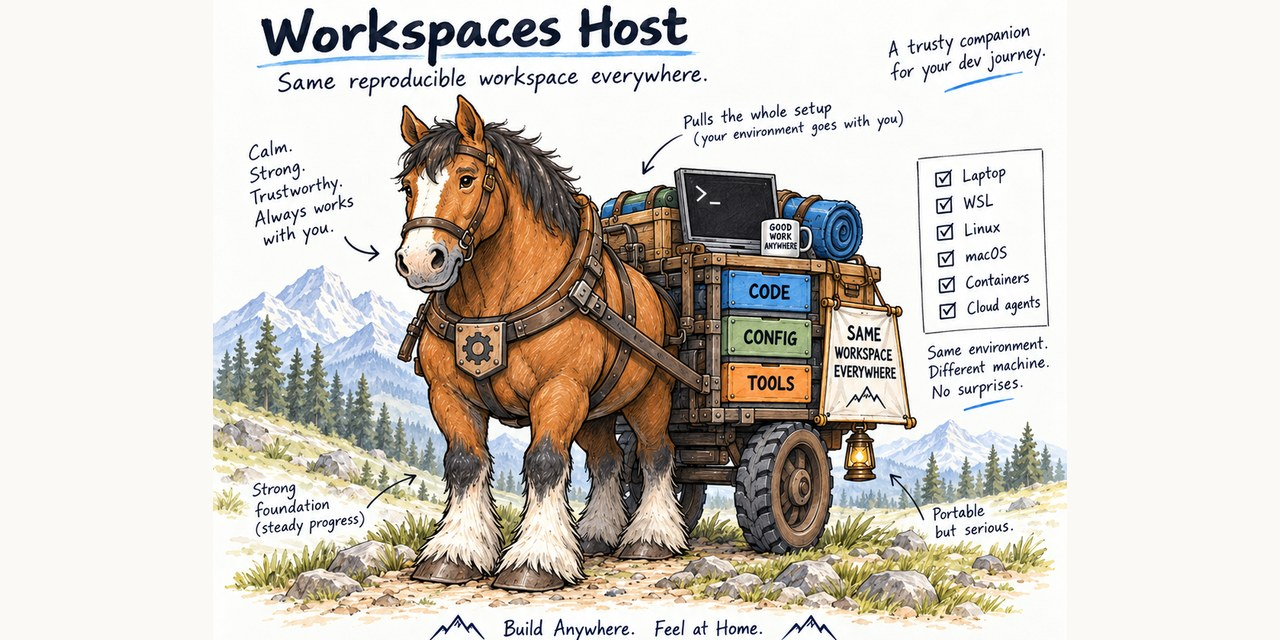
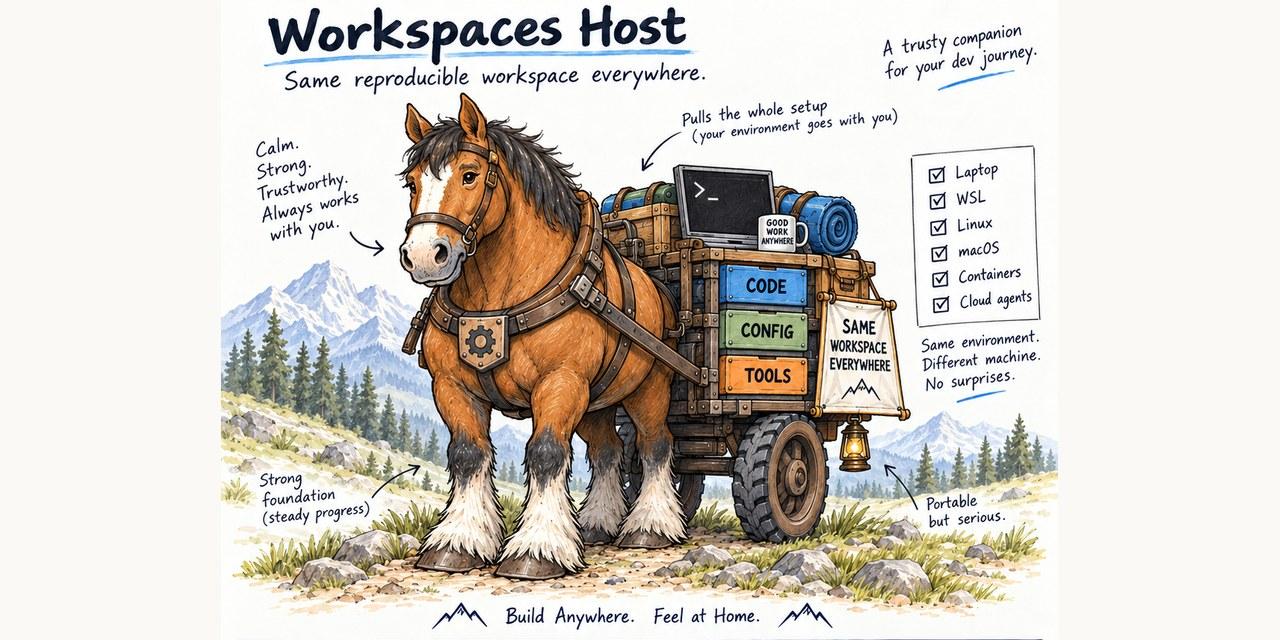
Split the mascot into a hero panel and a workflows panel
The source illustration is one tall poster with two distinct halves:
a hero panel (the horse and cart, ending at the ground) above a
"Workhorse in Action" grid of eight small task vignettes. Showing the
whole poster in one place made the hero too tall and the vignette grid
too small to actually read.

Cropped at the natural divider (the horizontal rule right after "Build
Anywhere. Feel at Home.") into two images instead:
- docs/mascot.jpg: the hero panel, still at the top of Getting Started
  and as README.md's banner.
- docs/mascot-workflows.jpg (new): the vignette grid, now at the top
  of "Using Your Sandbox" - a better fit there than Getting Started,
  since its eight tasks (Develop, Explore, Guide, Automate, Recharge,
  Adapt, Stay Secure, Go Further) depict ongoing day-to-day use, which
  is that section's own subject, not a one-time install.

Regenerated docs/social-preview.jpg from the clean hero-only crop
instead of the old letterboxed 60%-height crop. Updated spec 018's
FR-001/FR-017/SC-003 and Background for the two-image split.

Claude-Session: https://claude.ai/code/session_01BhqsGZNxU4UAvXNahdm1Zd

diff --git a/docs/index.html b/docs/index.html
@@ -192,11 +192,15 @@ body:not(:has(:target)) #getting-started {
 
 .mascot {
   display: block;
-  max-width: 340px;
+  max-width: 520px;
   width: 100%;
   height: auto;
   margin: 0 0 24px;
   border-radius: 12px;
+}
+
+.mascot-wide {
+  max-width: 780px;
 }
 
 .sidebar {
@@ -506,7 +510,7 @@ footer.site-footer a {
 <!-- ============================== Getting Started ============================== -->
 <section id="getting-started" class="page-section">
   <header class="page-hero">
-    <img class="mascot" src="mascot.jpg" alt="Workspaces Host mascot: a Clydesdale draft horse pulling a cart loaded with CODE, CONFIG, and TOOLS crates, captioned 'Same reproducible workspace everywhere.'" width="900" height="1125">
+    <img class="mascot" src="mascot.jpg" alt="Workspaces Host mascot: a Clydesdale draft horse pulling a cart loaded with CODE, CONFIG, and TOOLS crates, captioned 'Same reproducible workspace everywhere.'" width="900" height="688">
     <h1>Getting Started</h1>
     <p class="lede">Pick your platform. Run the commands. You'll have a working shell in a few minutes.</p>
   </header>
@@ -670,6 +674,7 @@ $ ./result/activate</code></pre>
 <!-- ============================== Using Your Sandbox ============================== -->
 <section id="usage" class="page-section">
   <header class="page-hero">
+    <img class="mascot mascot-wide" src="mascot-workflows.jpg" alt="Workhorse in Action: the mascot horse illustrated across eight everyday tasks - Develop, Explore, Guide, Automate, Recharge, Adapt, Stay Secure, and Go Further - captioned 'Different tasks. Same reliable companion.'" width="1000" height="485">
     <h1>Using Your Sandbox</h1>
     <p class="lede">Already installed? Here's what you'll actually reach for, day to day.</p>
   </header>

diff --git a/specs/018-documentation-site/spec.md b/specs/018-documentation-site/spec.md
@@ -71,16 +71,24 @@ Personas already explains how to activate one. The Personas table and the FAQ bo
 `fish` entry to match.
 
 A sixth revision added a mascot illustration (a Clydesdale draft horse pulling a cart of "CODE",
-"CONFIG", and "TOOLS" crates) as the project's visual identity, shown at the top of Getting
-Started and as README.md's own banner. This is the one deliberate exception to FR-001's
-"self-contained, no separate file" rule: a plain static image referenced by an `<img>` tag adds
-none of the complexity that rule actually guards against (a build step, a JavaScript framework, an
-external CDN dependency), and a 2-3MB image re-encoded as a base64 string inside `index.html`
-would have made the page itself worse to load and maintain than a small separate file. A
-landscape crop of the same illustration, sized to GitHub's own recommendation, exists for the
-repository's social-preview image - uploading it is a manual, one-time repository-settings action
-this repository's own files cannot perform, the same category of exception FR-001's "one
-self-contained file" already carves out for enabling GitHub Pages itself (see Assumptions).
+"CONFIG", and "TOOLS" crates) as the project's visual identity. The source artwork is one tall
+poster with two distinct halves - a hero panel (the horse and cart, ending at the ground) above a
+"Workhorse in Action" grid of eight small vignettes (Develop, Explore, Guide, Automate, Recharge,
+Adapt, Stay Secure, Go Further) - and showing the whole poster in one place made the hero image
+too tall and the vignette grid too small to read. The two halves are cropped into two separate
+images instead: the hero panel (`docs/mascot.jpg`) at the top of Getting Started and as
+README.md's own banner, and the vignette grid (`docs/mascot-workflows.jpg`) at the top of "Using
+Your Sandbox" - a better fit there than Getting Started, since the eight vignettes depict ongoing,
+day-to-day tasks (that section's own subject) rather than a one-time install. Static images
+referenced by plain `<img>` tags are the one deliberate exception to FR-001's "self-contained, no
+separate file" rule: they add none of the complexity that rule actually guards against (a build
+step, a JavaScript framework, an external CDN dependency), and a multi-megabyte image re-encoded
+as a base64 string inside `index.html` would have made the page itself worse to load and maintain
+than a few small separate files. A landscape crop of the hero panel, sized to GitHub's own
+recommendation, exists for the repository's social-preview image - uploading it is a manual,
+one-time repository-settings action this repository's own files cannot perform, the same category
+of exception FR-001's "one self-contained file" already carves out for enabling GitHub Pages
+itself (see Assumptions).
 
 ## User Scenarios & Testing *(mandatory)*
 
@@ -272,9 +280,9 @@ activate one without reading any other section.
   no separate stylesheet or script file, no external CDN, no build step, no static-site generator,
   and no client-side routing library or JavaScript framework of any kind (explicitly including,
   but not limited to, HTMx) - suitable for GitHub Pages' "deploy from a branch" mode pointed at
-  `main` / `docs`. A plain static image asset referenced by an `<img>` tag (FR-017's mascot) is
-  the one permitted exception: it introduces none of the build tooling, frameworks, or external
-  dependencies this rule exists to keep out.
+  `main` / `docs`. A plain static image asset referenced by an `<img>` tag (FR-017's mascot
+  images) is the one permitted exception: it introduces none of the build tooling, frameworks, or
+  external dependencies this rule exists to keep out.
 - **FR-002**: The site MUST include a `.nojekyll` marker so GitHub Pages serves the file as-is,
   without Jekyll processing.
 - **FR-003**: Navigation between the site's sections MUST be implemented in plain CSS (the
@@ -356,14 +364,17 @@ activate one without reading any other section.
   command and as a durable snippet for `~/.config/workspaces-host/local.nix`; and a pointer to the
   `fish` persona (FR-015) as the native alternative. "Using Your Sandbox"'s own shell subsection
   MUST link to this subsection rather than restate it.
-- **FR-017**: The repository MUST include a mascot illustration as `docs/mascot.jpg`, shown at
-  the top of Getting Started's hero (FR-004) and as README.md's own banner image (the same file,
-  not a duplicate), each with real alt/description text (not a bare filename) - not a generic
-  stock graphic, but this repository's own (a Clydesdale draft horse pulling a cart of "CODE",
-  "CONFIG", and "TOOLS" crates). A landscape crop of the same illustration MUST exist as
-  `docs/social-preview.jpg`, sized to GitHub's own recommendation for a repository's
-  social-preview image, for a human to upload via repository Settings (FR-001's one permitted
-  exception; see Assumptions for why that upload step can't be automated).
+- **FR-017**: The repository MUST include the mascot illustration as two cropped images, each
+  with real alt/description text (not a bare filename) - not a generic stock graphic, but this
+  repository's own: `docs/mascot.jpg` (the hero panel - a Clydesdale draft horse pulling a cart of
+  "CODE", "CONFIG", and "TOOLS" crates), shown at the top of Getting Started's hero (FR-004) and
+  as README.md's own banner image (the same file, not a duplicate); and
+  `docs/mascot-workflows.jpg` (the "Workhorse in Action" vignette grid - the same mascot shown
+  across eight everyday tasks), shown at the top of "Using Your Sandbox"'s hero (FR-005), since
+  that grid depicts ongoing, day-to-day use rather than a one-time install. A landscape crop of
+  the hero panel MUST exist as `docs/social-preview.jpg`, sized to GitHub's own recommendation for
+  a repository's social-preview image, for a human to upload via repository Settings (FR-001's one
+  permitted exception; see Assumptions for why that upload step can't be automated).
 
 ### Key Entities
 
@@ -381,9 +392,9 @@ activate one without reading any other section.
   working shell with no need to consult any other section.
 - **SC-002**: Every section is reachable from every other section in exactly one click, with no
   full page reload.
-- **SC-003**: The site works with no network access beyond loading `index.html` and its one local
-  image asset (FR-017's mascot) - no external font/script/stylesheet dependency, no external
-  library, nothing fetched from a third-party host - and with JavaScript disabled, including
+- **SC-003**: The site works with no network access beyond loading `index.html` and its local
+  image assets (FR-017's mascot images) - no external font/script/stylesheet dependency, no
+  external library, nothing fetched from a third-party host - and with JavaScript disabled, including
   section routing itself.
 - **SC-004**: Every "this was deliberate" claim elsewhere on the site links to a real, substantive
   answer in the "FAQ" section, not a restatement of the same sentence.
